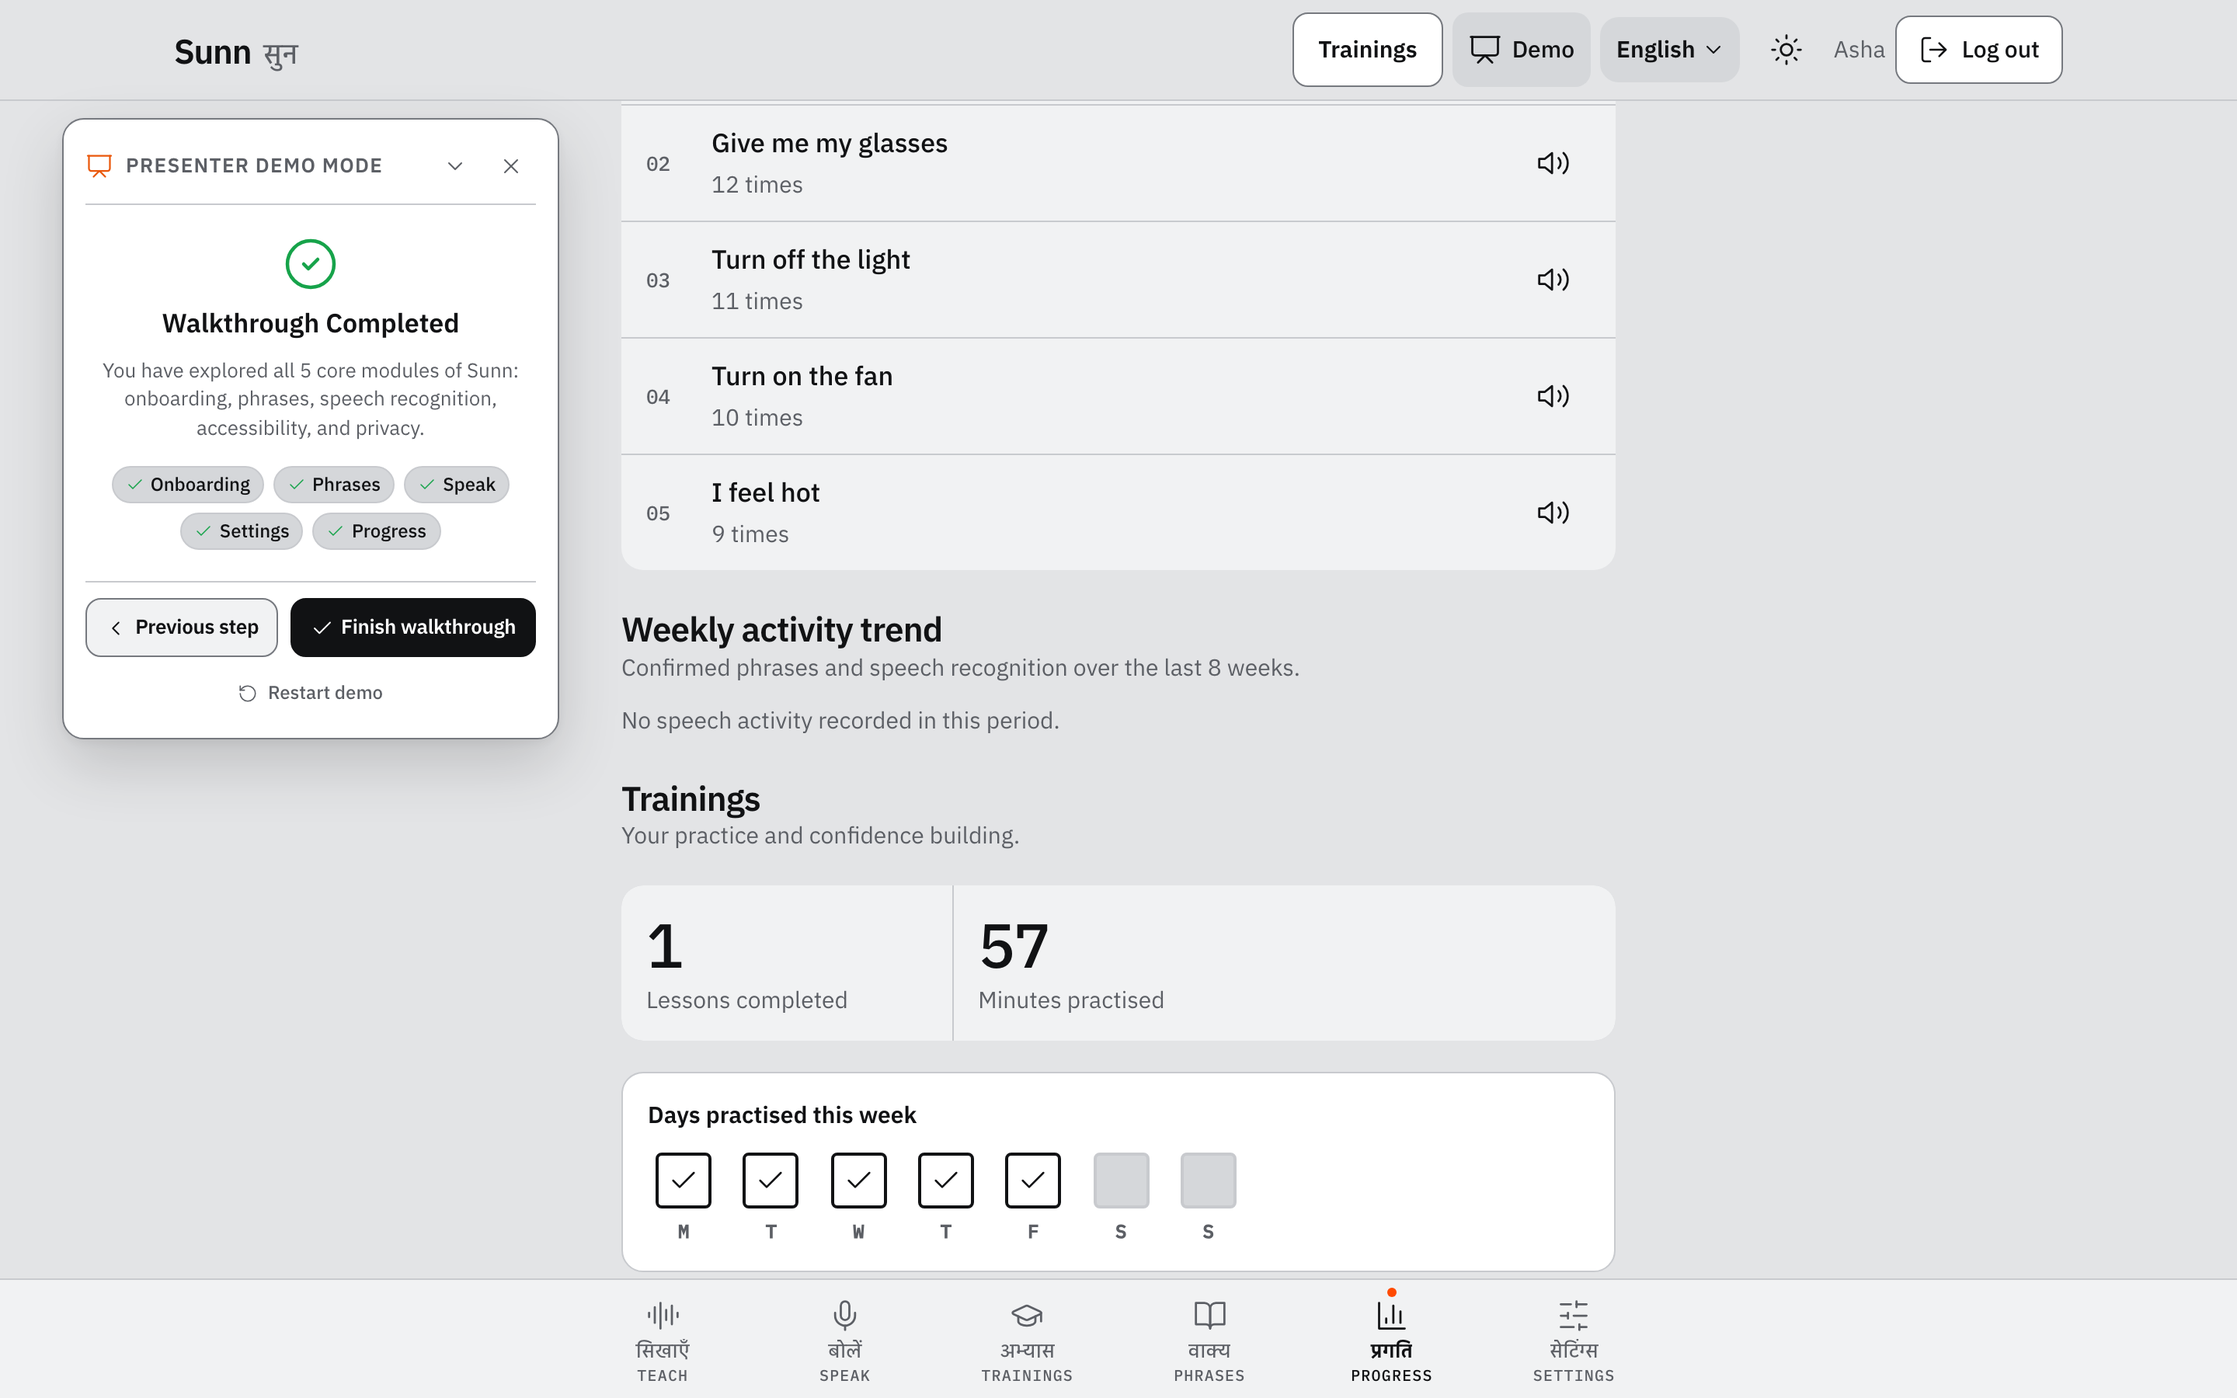
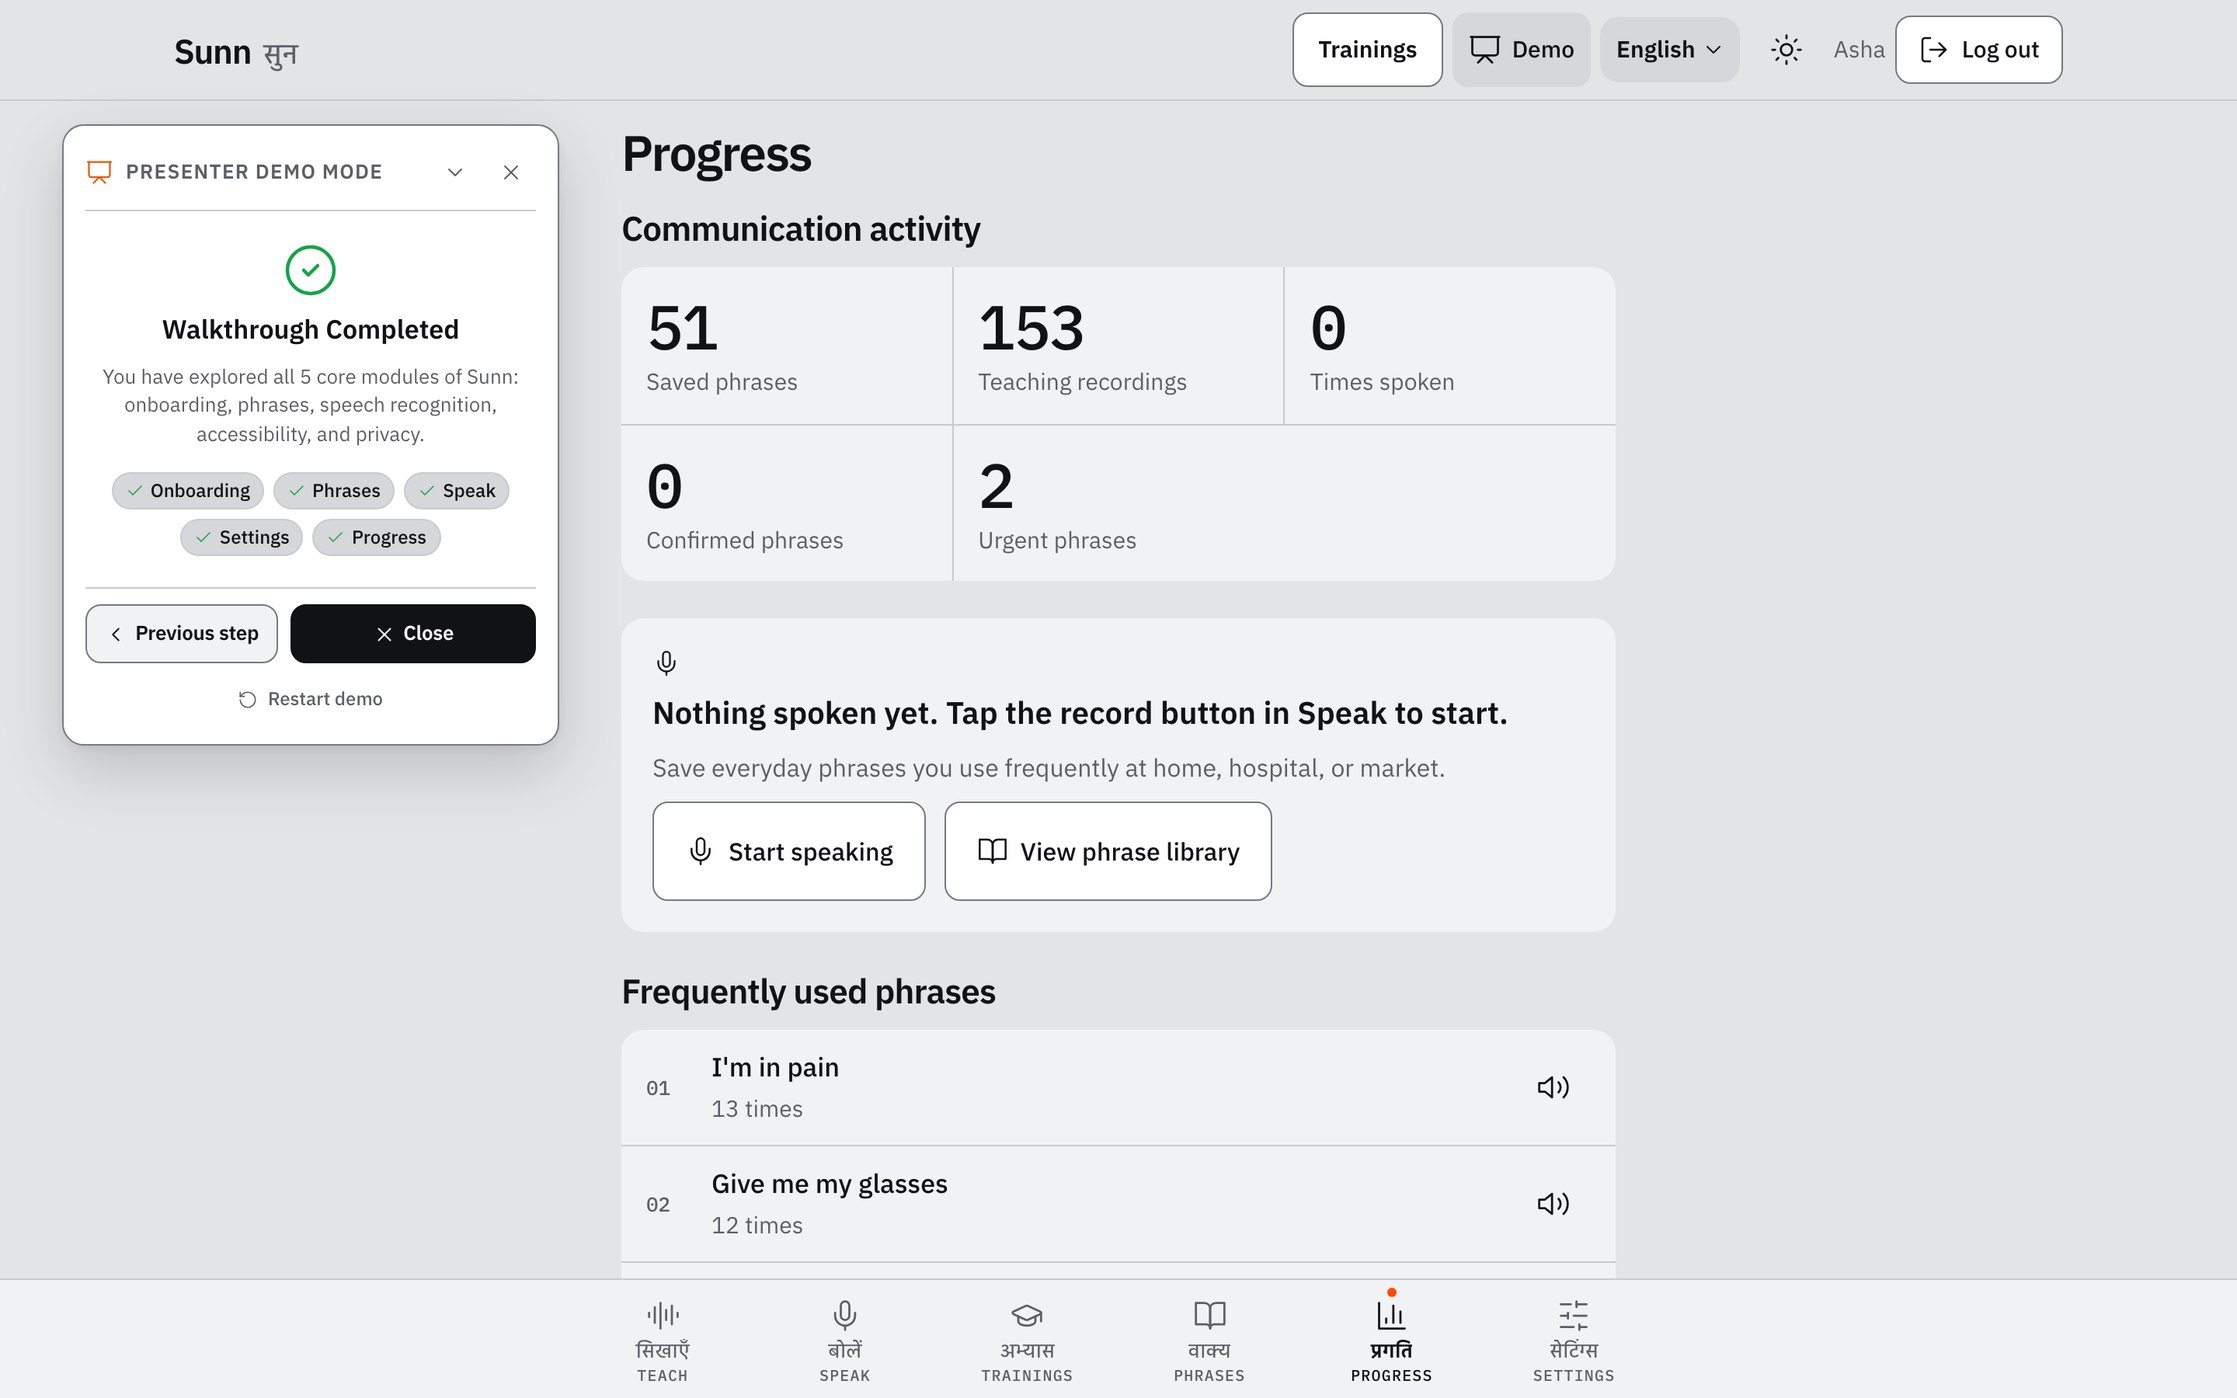
Improve walkthrough completion
- Replace finish walkthrough button with close on completion screen
- Maintain clean previous navigation from completion back to step 5
- Add e2e test coverage for spotlight scopes, completion close, and navigation

diff --git a/web/e2e/presenter.spec.js b/web/e2e/presenter.spec.js
@@ -1,4 +1,4 @@
-import { expect, markOnboarded, signUp, t, test } from './helpers.js'
+import { expect, markOnboarded, openSpeak, signUp, t, test } from './helpers.js'
 
 test('presenter mode initializes at step 1, steps through all 5 screens to completion, and restarts', async ({ page }) => {
   const user = await signUp(page.request)
@@ -41,12 +41,33 @@ test('presenter mode initializes at step 1, steps through all 5 screens to compl
   await expect(bar.getByRole('heading', { name: t('en', 'presenter.completedTitle') })).toBeVisible()
   await expect(bar.getByText(t('en', 'presenter.completedDesc'))).toBeVisible()
 
-  // Restart returns to Step 1
+  // On completion, Finish walkthrough is replaced with Close
+  await expect(bar.getByRole('button', { name: t('en', 'presenter.finish') })).toHaveCount(0)
+  const closeBtn = bar.getByRole('button', { name: t('en', 'presenter.close') })
+  await expect(closeBtn).toBeVisible()
+
+  // Clicking Previous returns to Step 5 without corrupting state
+  await bar.getByRole('button', { name: t('en', 'presenter.prev') }).click()
+  await expect(page).toHaveURL(/\/app\/progress$/)
+  await expect(bar.getByText(t('en', 'presenter.stepIndicator', { current: 5, total: 5 }))).toBeVisible()
+  await expect(bar.getByRole('button', { name: t('en', 'presenter.finish') })).toBeVisible()
+
+  // Re-advance to completion and verify Close dismisses panel cleanly
+  await bar.getByRole('button', { name: t('en', 'presenter.finish') }).click()
+  await expect(bar.getByRole('heading', { name: t('en', 'presenter.completedTitle') })).toBeVisible()
+  await bar.getByRole('button', { name: t('en', 'presenter.close') }).click()
+  await expect(bar).toHaveCount(0)
+
+  // Reopen with Alt+P and verify Restart returns to Step 1
+  await page.locator('body').click()
+  await page.keyboard.press('Alt+P')
+  await expect(bar).toBeVisible()
+  await expect(page).toHaveURL(/\/app\/onboarding$/)
   await bar.getByRole('button', { name: t('en', 'presenter.restart') }).click()
   await expect(page).toHaveURL(/\/app\/onboarding$/)
   await expect(bar.getByText(t('en', 'presenter.stepIndicator', { current: 1, total: 5 }))).toBeVisible()
 
-  // Close and reopen with Alt+P
+  // Close with header exit button
   await bar.getByRole('button', { name: t('en', 'presenter.exit') }).click()
   await expect(bar).toHaveCount(0)
   await page.locator('body').click()
@@ -198,4 +219,49 @@ test('presenter mode walkthrough does not make automatic Gnani API calls', async
 
   // Verify Gnani was never triggered automatically
   expect(gnaniApiCalled).toBe(false)
+})
+
+test('spotlight targets are properly scoped and scroll to top for all 5 steps', async ({ page }) => {
+  const user = await signUp(page.request)
+  await page.request.patch('/api/me', { data: { phrase_goal: 10 } })
+  await openSpeak(page.request, user)
+  await markOnboarded(page, user)
+  await page.goto('/app/onboarding')
+
+  await page.getByRole('button', { name: t('en', 'presenter.enter') }).click()
+  const bar = page.getByRole('region', { name: t('en', 'presenter.title') })
+  await expect(bar).toBeVisible()
+
+  // Step 1: Onboarding target
+  await expect(page.locator('.presenter-target-highlight')).toBeVisible()
+
+  // Step 2: Phrases target is heading/controls (.phrases-header), NOT .phrases-list
+  await bar.getByRole('button', { name: t('en', 'presenter.next') }).click()
+  await expect(page).toHaveURL(/\/app\/phrases$/)
+  const phrasesTarget = page.locator('.presenter-target-highlight')
+  await expect(phrasesTarget).toBeVisible()
+  await expect(phrasesTarget).toHaveClass(/phrases-header/)
+  await expect(page.locator('.phrases-list')).not.toHaveClass(/presenter-target-highlight/)
+
+  // Step 3: Speak target is recording interface (.speak-device), NOT entire page
+  await bar.getByRole('button', { name: t('en', 'presenter.next') }).click()
+  await expect(page).toHaveURL(/\/app\/speak$/)
+  const speakTarget = page.locator('.presenter-target-highlight')
+  await expect(speakTarget).toBeVisible()
+  await expect(speakTarget).toHaveClass(/speak-device/)
+  await expect(page.locator('section.speak')).not.toHaveClass(/presenter-target-highlight/)
+
+  // Step 4: Settings target is accessibility section
+  await bar.getByRole('button', { name: t('en', 'presenter.next') }).click()
+  await expect(page).toHaveURL(/\/app\/settings$/)
+  const settingsTarget = page.locator('.presenter-target-highlight')
+  await expect(settingsTarget).toBeVisible()
+  await expect(settingsTarget).toHaveClass(/settings-accessibility-group/)
+
+  // Step 5: Progress target is heading and summary metrics
+  await bar.getByRole('button', { name: t('en', 'presenter.next') }).click()
+  await expect(page).toHaveURL(/\/app\/progress$/)
+  const progressTarget = page.locator('.presenter-target-highlight')
+  await expect(progressTarget).toBeVisible()
+  await expect(progressTarget).toHaveClass(/progress-header-summary/)
 })

diff --git a/web/src/i18n/ta.js b/web/src/i18n/ta.js
@@ -402,6 +402,7 @@ export default {
   'presenter.stepProgressCue':
     'எண்கள் பேச்சு அடையாளத்தின் நிலைத்தன்மையைக் காட்டுகின்றன, மருத்துவ குணமடைவை அல்ல என்று விளக்குங்கள். கணக்கை முழுமையாக அழிக்கும் உறுதியைக் காட்டுங்கள்.',
   'presenter.finish': 'சுற்றுப்பயணத்தை முடிக்கவும்',
+  'presenter.close': 'மூடு',
   'presenter.completedTitle': 'வழிகாட்டல் நிறைவடைந்தது',
   'presenter.completedDesc':
     'சன்னின் 5 முக்கிய அம்சங்களை நீங்கள் பார்த்துள்ளீர்கள்: தொடக்கம், சொற்றொடர்கள், பேச்சு அறிதல், அணுகல்தன்மை மற்றும் தனியுரிமை.',

diff --git a/web/src/i18n/ml.js b/web/src/i18n/ml.js
@@ -402,6 +402,7 @@ export default {
   'presenter.stepProgressCue':
     'കണക്കുകൾ സംസാരം തിരിച്ചറിയലിന്റെ സ്ഥിരതയാണ് കാണിക്കുന്നത്, മെഡിക്കൽ ഭേദമാകൽ അല്ല എന്ന് വിശദീകരിക്കൂ. അക്കൗണ്ട് പൂർണ്ണമായും മായ്ക്കാമെന്ന ഉറപ്പ് കാണിക്കൂ.',
   'presenter.finish': 'ടൂർ പൂർത്തിയാക്കുക',
+  'presenter.close': 'അടയ്ക്കുക',
   'presenter.completedTitle': 'വാക്ക്ത്രൂ പൂർത്തിയായി',
   'presenter.completedDesc':
     'സുന്നിന്റെ 5 പ്രധാന മൊഡ്യൂളുകളും നിങ്ങൾ കണ്ടുകഴിഞ്ഞു: ഓൺബോർഡിംഗ്, ശൈലികൾ, സംസാര തിരിച്ചറിയൽ, പ്രവേശനക്ഷമത, സ്വകാര്യത.',

diff --git a/web/src/i18n/kn.js b/web/src/i18n/kn.js
@@ -402,6 +402,7 @@ export default {
   'presenter.stepProgressCue':
     'ಅಂಕಿಗಳು ಮಾತಿನ ಗುರುತಿಸುವಿಕೆಯ ಸ್ಥಿರತೆಯನ್ನು ತೋರಿಸುತ್ತವೆ, ವೈದ್ಯಕೀಯ ಸುಧಾರಣೆಯನ್ನಲ್ಲ ಎಂದು ವಿವರಿಸಿ. ಖಾತೆಯನ್ನು ಪೂರ್ತಿಯಾಗಿ ಅಳಿಸುವ ಭರವಸೆ ತೋರಿಸಿ.',
   'presenter.finish': 'ಪ್ರವಾಸ ಮುಗಿಸಿ',
+  'presenter.close': 'ಮುಚ್ಚಿ',
   'presenter.completedTitle': 'ಡೆಮೊ ಪೂರ್ಣಗೊಂಡಿದೆ',
   'presenter.completedDesc':
     'ನೀವು ಸುನ್ನ್ನ ಎಲ್ಲಾ ೫ ಪ್ರಮುಖ ಮಾಡ್ಯೂಲ್ಗಳನ್ನು ಪರಿಶೀಲಿಸಿದ್ದೀರಿ: ಆನ್ಬೋರ್ಡಿಂಗ್, ನುಡಿಗಟ್ಟುಗಳು, ಧ್ವನಿ ಗುರುತಿಸುವಿಕೆ, ಪ್ರವೇಶಸಾಧ್ಯತೆ ಮತ್ತು ಗೌಪ್ಯತೆ.',

diff --git a/web/src/i18n/te.js b/web/src/i18n/te.js
@@ -402,6 +402,7 @@ export default {
   'presenter.stepProgressCue':
     'అంకెలు మాటల గుర్తింపు నిలకడను చూపిస్తాయి, వైద్య కోలుకోవడాన్ని కాదని వివరించండి. ఖాతాను పూర్తిగా తొలగించే హామీని చూపించండి.',
   'presenter.finish': 'టూర్ పూర్తి చేయండి',
+  'presenter.close': 'మూసివేయి',
   'presenter.completedTitle': 'వాక్త్రూ పూర్తయింది',
   'presenter.completedDesc':
     'మీరు సున్ యొక్క 5 ప్రధాన విభాగాలను చూసారు: ఆన్బోర్డింగ్, పదబంధాలు, సంభాషణ గుర్తింపు, ప్రాప్యత మరియు గోప్యత.',

diff --git a/web/src/i18n/bn.js b/web/src/i18n/bn.js
@@ -402,6 +402,7 @@ export default {
   'presenter.stepProgressCue':
     'সংখ্যাগুলো কথা চেনার ধারাবাহিকতা দেখায়, ডাক্তারি সেরে ওঠা নয়, তা বুঝিয়ে বলুন। পুরো অ্যাকাউন্ট মুছে ফেলার নিশ্চয়তা দেখান।',
   'presenter.finish': 'ট্যুর শেষ করুন',
+  'presenter.close': 'বন্ধ করুন',
   'presenter.completedTitle': 'ওয়াকথ্রু সম্পন্ন হয়েছে',
   'presenter.completedDesc':
     'আপনি সুন্ন-এর ৫টি মূল মডিউল দেখেছেন: অনবোর্ডিং, বাক্যাংশ, বাক স্বীকৃতি, অ্যাক্সেসিবিলিটি এবং গোপনীয়তা।',

diff --git a/web/src/i18n/hi.js b/web/src/i18n/hi.js
@@ -402,6 +402,7 @@ export default {
   'presenter.stepProgressCue':
     'स्पष्ट करें कि यह चिकित्सीय सुधार नहीं बल्कि पहचान की निरंतरता मापता है। खाता मिटाने की सुविधा दिखाएँ।',
   'presenter.finish': 'टूर समाप्त करें',
+  'presenter.close': 'बंद करें',
   'presenter.completedTitle': 'डेमो वॉकथ्रू पूरा हुआ',
   'presenter.completedDesc':
     'आपने सुन्न के सभी 5 मुख्य मॉड्यूल देख लिए हैं: ऑनबोर्डिंग, वाक्यांश, वाणी पहचान, एक्सेसिबिलिटी और गोपनीयता।',

diff --git a/web/src/i18n/gu.js b/web/src/i18n/gu.js
@@ -402,6 +402,7 @@ export default {
   'presenter.stepProgressCue':
     'આંકડા બોલીની ઓળખમાં સાતત્ય બતાવે છે, તબીબી સુધારો નહીં, તે સમજાવો. ખાતું પૂરેપૂરું કાઢી નાખવાની ખાતરી બતાવો.',
   'presenter.finish': 'ટૂર પૂર્ણ કરો',
+  'presenter.close': 'બંધ કરો',
   'presenter.completedTitle': 'વોકથ્રુ પૂર્ણ થયું',
   'presenter.completedDesc':
     'તમે સુન્નના તમામ ૫ મુખ્ય મોડ્યુલ જોઈ લીધા છે: ઓનબોર્ડિંગ, શબ્દસમૂહો, વાણી ઓળખ, ઍક્સેસિબિલિટી અને ગોપનીયતા.',

diff --git a/web/src/i18n/mr.js b/web/src/i18n/mr.js
@@ -402,6 +402,7 @@ export default {
   'presenter.stepProgressCue':
     'आकडे बोलण्याच्या ओळखीतील सातत्य दाखवतात, वैद्यकीय सुधारणा नाही, हे समजावा. खाते पूर्ण हटवण्याची हमी दाखवा.',
   'presenter.finish': 'टूर पूर्ण करा',
+  'presenter.close': 'बंद करा',
   'presenter.completedTitle': 'वॉकथ्रू पूर्ण झाले',
   'presenter.completedDesc':
     'तुम्ही सुन्नचे सर्व ५ मुख्य मॉड्युल्स पाहिले आहेत: ऑनबोर्डिंग, वाक्ये, आवाज ओळख, सुलभता आणि गोपनीयता.',

diff --git a/web/src/i18n/pa.js b/web/src/i18n/pa.js
@@ -402,6 +402,7 @@ export default {
   'presenter.stepProgressCue':
     'ਸਮਝਾਓ ਕਿ ਅੰਕੜੇ ਬੋਲੀ ਦੀ ਪਛਾਣ ਦੀ ਲਗਾਤਾਰਤਾ ਦਿਖਾਉਂਦੇ ਹਨ, ਡਾਕਟਰੀ ਸੁਧਾਰ ਨਹੀਂ। ਪੂਰਾ ਖਾਤਾ ਮਿਟਾਉਣ ਦੀ ਗਾਰੰਟੀ ਦਿਖਾਓ।',
   'presenter.finish': 'ਟੂਰ ਖਤਮ ਕਰੋ',
+  'presenter.close': 'ਬੰਦ ਕਰੋ',
   'presenter.completedTitle': 'ਵਾਕਥਰੂ ਪੂਰਾ ਹੋਇਆ',
   'presenter.completedDesc':
     'ਤੁਸੀਂ ਸੁੰਨ ਦੇ ਸਾਰੇ 5 ਮੁੱਖ ਮਾਡਿਊਲ ਦੇਖ ਲਏ ਹਨ: ਆਨਬੋਰਡਿੰਗ, ਵਾਕੰਸ਼, ਬੋਲ ਪਛਾਣ, ਪਹੁੰਚਯੋਗਤਾ ਅਤੇ ਪਰਦੇਦਾਰੀ।',

diff --git a/web/src/PresenterBar.jsx b/web/src/PresenterBar.jsx
@@ -449,10 +449,10 @@ export default function PresenterBar({ onClose }) {
                 type="button"
                 className="presenter-action-btn primary is-finish"
                 onClick={onClose}
-                aria-label={t('presenter.exit')}
+                aria-label={t('presenter.close')}
               >
-                <Icon name="check" />
-                <span>{t('presenter.finish')}</span>
+                <Icon name="x" />
+                <span>{t('presenter.close')}</span>
               </button>
             </div>
 

diff --git a/web/src/i18n/en.js b/web/src/i18n/en.js
@@ -401,6 +401,7 @@ export default {
   'presenter.stepProgressCue':
     'Explain that metrics track speech recognition consistency, not medical recovery. Highlight the complete account deletion guarantee.',
   'presenter.finish': 'Finish walkthrough',
+  'presenter.close': 'Close',
   'presenter.completedTitle': 'Walkthrough Completed',
   'presenter.completedDesc':
     'You have explored all 5 core modules of Sunn: onboarding, phrases, speech recognition, accessibility, and privacy.',
